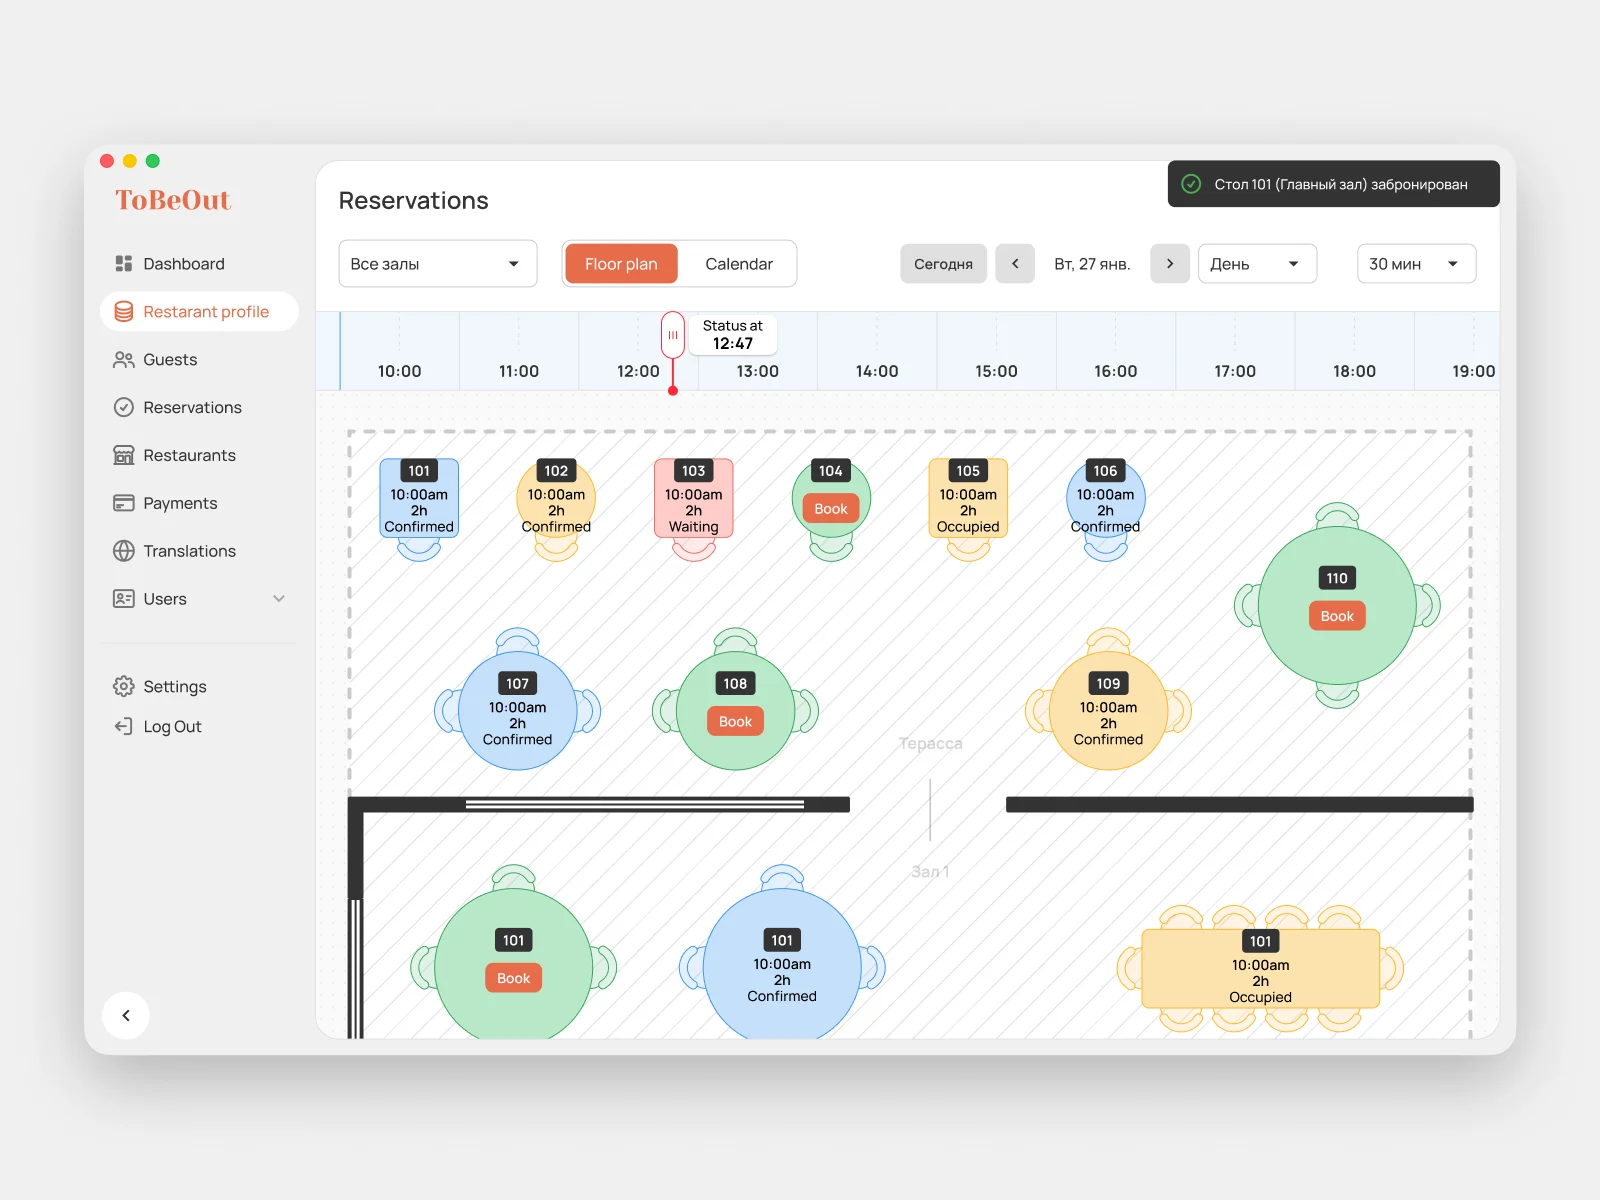
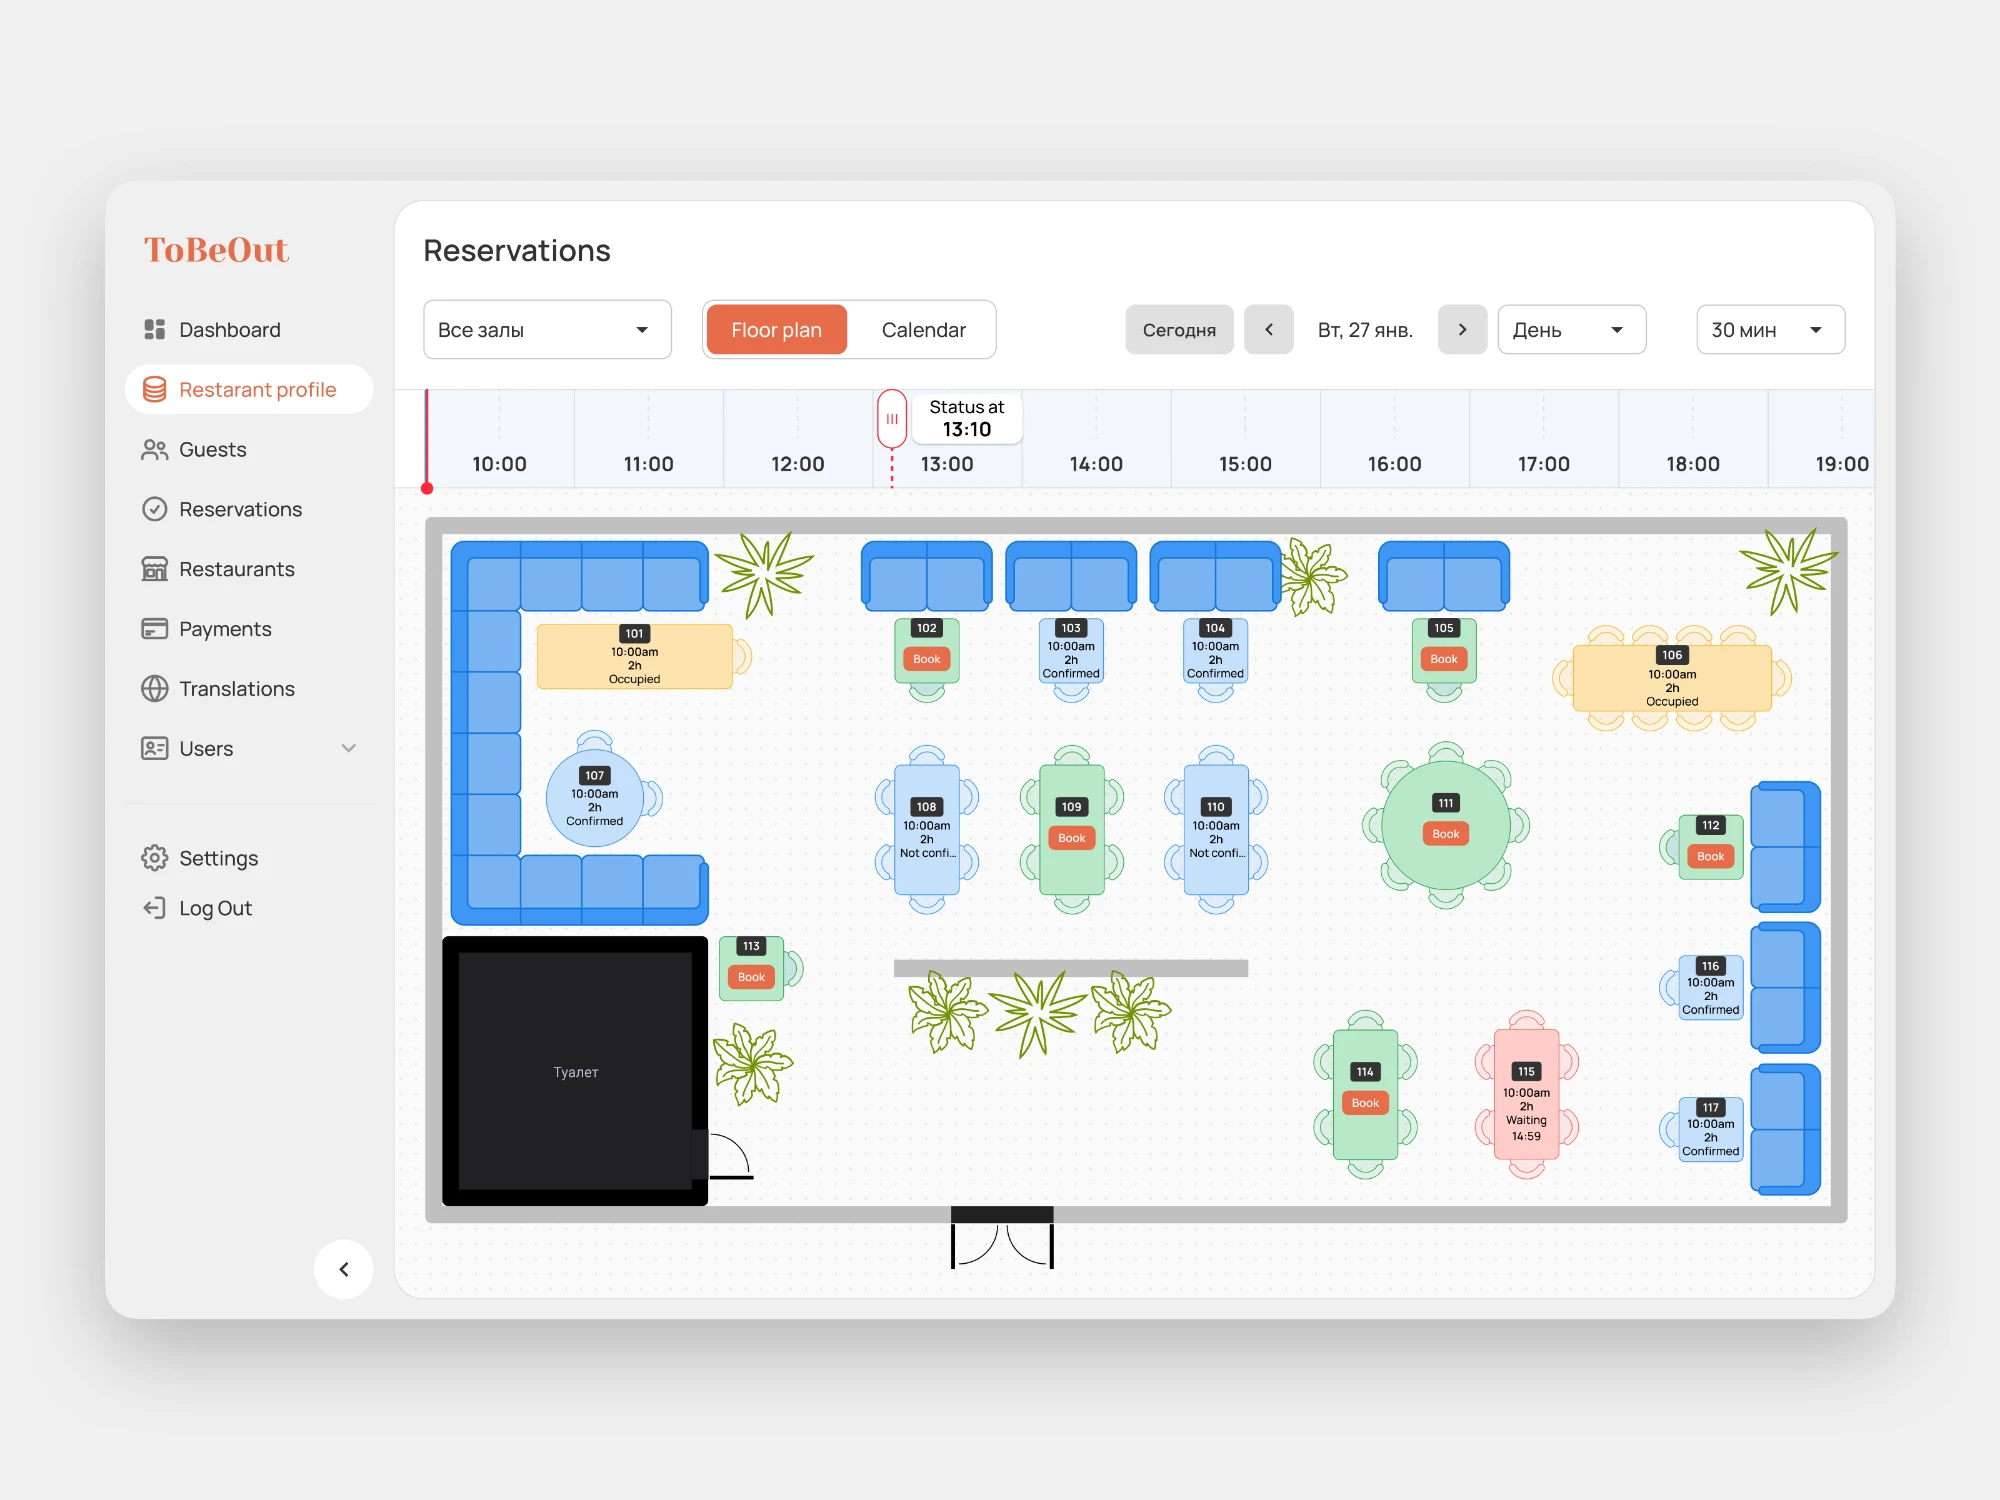
tobeout: новый скрин плана зала из фигмы; stenn: мокап браузера вместо макбука, свой рабочий ползунок прокрутки

diff --git a/case.css b/case.css
@@ -143,33 +143,35 @@ footer a{color:var(--accent)}
 .marquee__track img{height:688px;width:auto;flex:none;display:block;border-radius:24px;background:#eef0f3}
 @media (max-width:980px){ .marquee__track img{height:375px;border-radius:16px} }
 
-/* Мокап макбука с прокруткой длинного макета внутри экрана.
+/* Мокап браузера с прокруткой длинного макета внутри окна.
    WHY: страница 1440×4959 в полный рост ломает ритм страницы – ее невозможно пролистать. */
 .macbox{width:100vw;position:relative;left:50%;transform:translateX(-50vw);
   padding:32px 80px 8px;box-sizing:border-box}
-.macrow{display:flex;gap:20px;align-items:stretch;max-width:1120px;margin:0 auto}
+.macrow{display:flex;gap:16px;align-items:stretch;max-width:1120px;margin:0 auto}
 .mac{flex:1 1 auto;min-width:0}
-.mac__body{background:#1d1d1f;border-radius:22px;padding:14px 14px 22px;
-  box-shadow:0 24px 60px rgba(0,0,0,.18)}
-.mac__cam{width:100%;display:flex;justify-content:center;margin:0 0 10px}
-.mac__cam i{width:7px;height:7px;border-radius:50%;background:#3a3a3d;display:block}
-.mac__screen{position:relative;border-radius:6px;overflow:hidden;background:#fff;
-  aspect-ratio:16/10}
+.mac__body{background:#e9eaee;border:1px solid #d8dadf;border-radius:14px;overflow:hidden;
+  box-shadow:0 18px 44px rgba(0,0,0,.12)}
+.mac__bar{display:flex;align-items:center;gap:8px;padding:11px 14px;background:#e9eaee}
+.mac__dots{display:flex;gap:7px;flex:none}
+.mac__dots i{width:11px;height:11px;border-radius:50%;display:block}
+.mac__dots i:nth-child(1){background:#ff5f57}
+.mac__dots i:nth-child(2){background:#febc2e}
+.mac__dots i:nth-child(3){background:#28c840}
+.mac__url{flex:1 1 auto;min-width:0;margin-left:8px;background:#fff;border-radius:7px;
+  padding:5px 12px;font-size:13px;color:#6b7280;white-space:nowrap;overflow:hidden;
+  text-overflow:ellipsis;border:1px solid #dfe1e6}
+.mac__screen{position:relative;background:#fff;aspect-ratio:16/10;border-top:1px solid #d8dadf}
 .mac__scroll{position:absolute;inset:0;overflow-y:auto;overscroll-behavior:contain;
-  scrollbar-width:none}
+  scrollbar-width:none;-webkit-overflow-scrolling:touch}
 .mac__scroll::-webkit-scrollbar{display:none}
 .mac__scroll img{width:100%;display:block;border-radius:0;background:#fff}
-.mac__base{height:11px;margin:0 auto;width:106%;max-width:none;position:relative;left:-3%;
-  background:linear-gradient(#d2d5da,#a7abb2);border-radius:0 0 10px 10px}
-.mac__base::after{content:'';position:absolute;left:50%;transform:translateX(-50%);
-  top:0;width:14%;height:5px;background:#8f939a;border-radius:0 0 7px 7px}
 
-/* Ползунок прокрутки рядом с мокапом */
-.macslider{flex:0 0 44px;display:flex;flex-direction:column;align-items:center;gap:10px;
-  padding:14px 0 34px}
-.macslider input{writing-mode:vertical-lr;
-  width:6px;flex:1 1 auto;accent-color:#1d1d1f;cursor:grab;background:transparent}
-.macslider span{font-size:11px;color:var(--muted);letter-spacing:.06em}
+/* Свой ползунок: input[type=range] в вертикальном виде поддержан не везде */
+.macslider{flex:0 0 10px;position:relative;background:#e6e8ec;border-radius:6px;
+  touch-action:none;cursor:pointer;align-self:stretch}
+.macslider__thumb{position:absolute;left:-3px;width:16px;height:64px;border-radius:8px;
+  background:#1d1d1f;top:0;cursor:grab;transition:background .15s}
+.macslider__thumb:active{cursor:grabbing;background:#000}
 .mac__hint{max-width:1120px;margin:12px auto 0;font-size:16px;color:var(--muted);
   display:flex;gap:14px;align-items:center;flex-wrap:wrap}
 .mac__hint a{color:var(--accent);text-decoration:none}
@@ -179,11 +181,10 @@ footer a{color:var(--accent)}
 @media (max-width:640px){
   .macbox{padding:16px 16px 8px}
   .macrow{flex-direction:column;gap:12px}
-  .mac__body{border-radius:16px;padding:10px 10px 16px}
+  .mac__body{border-radius:12px}
   .mac__screen{aspect-ratio:auto;height:340px}
-  .macslider{flex:none;flex-direction:row;width:100%;padding:0}
-  .macslider span{transform:rotate(-90deg)}
-  .macslider input{writing-mode:horizontal-tb;direction:ltr;
-    width:auto;height:6px;flex:1 1 auto}
+  .mac__url{font-size:11px}
+  .macslider{flex:none;height:10px;width:100%}
+  .macslider__thumb{left:0;top:-3px;width:72px;height:16px}
   .mac__hint{font-size:14px;margin-top:8px}
 }

diff --git a/lightbox.js b/lightbox.js
@@ -50,29 +50,51 @@
   });
 })();
 
-/* Мокап макбука: ползунок и внутренняя прокрутка синхронизированы.
-   WHY: макет высотой ~5000px иначе занимает пол-страницы и мешает читать кейс. */
+/* Мокап браузера: свой ползунок на pointer-событиях + внутренняя прокрутка.
+   WHY: input[type=range] в вертикальной ориентации работает не во всех браузерах – был неподвижен. */
 (function () {
   [].slice.call(document.querySelectorAll('.macbox')).forEach(function (box) {
     var sc = box.querySelector('.mac__scroll');
-    var range = box.querySelector('.macslider input');
-    if (!sc || !range) return;
-    var lock = false;
-    function max() { return Math.max(1, sc.scrollHeight - sc.clientHeight); }
-    range.addEventListener('input', function () {
-      lock = true;
-      sc.scrollTop = max() * (range.value / 1000);
-      lock = false;
+    var rail = box.querySelector('.macslider');
+    var thumb = box.querySelector('.macslider__thumb');
+    if (!sc || !rail || !thumb) return;
+
+    function vertical() { return rail.clientHeight > rail.clientWidth; }
+    function maxScroll() { return Math.max(1, sc.scrollHeight - sc.clientHeight); }
+    function freeRail() {
+      return vertical() ? Math.max(1, rail.clientHeight - thumb.offsetHeight)
+                        : Math.max(1, rail.clientWidth - thumb.offsetWidth);
+    }
+    function paint() {
+      var k = sc.scrollTop / maxScroll();
+      if (vertical()) { thumb.style.top = (k * freeRail()) + 'px'; thumb.style.left = '-3px'; }
+      else { thumb.style.left = (k * freeRail()) + 'px'; thumb.style.top = '-3px'; }
+    }
+    function setFromPoint(e) {
+      var r = rail.getBoundingClientRect();
+      var k = vertical()
+        ? (e.clientY - r.top - thumb.offsetHeight / 2) / freeRail()
+        : (e.clientX - r.left - thumb.offsetWidth / 2) / freeRail();
+      k = Math.min(1, Math.max(0, k));
+      sc.scrollTop = k * maxScroll();
+      paint();
+    }
+
+    var dragging = false;
+    thumb.addEventListener('pointerdown', function (e) {
+      dragging = true; thumb.setPointerCapture(e.pointerId); e.preventDefault();
     });
-    sc.addEventListener('scroll', function () {
-      if (lock) return;
-      range.value = Math.round((sc.scrollTop / max()) * 1000);
-    }, { passive: true });
-    // колесо мыши над экраном прокручивает макет, но не «залипает» на краях
-    sc.addEventListener('wheel', function (e) {
-      var atTop = sc.scrollTop <= 0 && e.deltaY < 0;
-      var atEnd = sc.scrollTop >= max() - 1 && e.deltaY > 0;
-      if (!atTop && !atEnd) e.stopPropagation();
-    }, { passive: true });
+    thumb.addEventListener('pointermove', function (e) { if (dragging) setFromPoint(e); });
+    thumb.addEventListener('pointerup', function () { dragging = false; });
+    thumb.addEventListener('pointercancel', function () { dragging = false; });
+    // клик по дорожке — прыжок в эту точку
+    rail.addEventListener('pointerdown', function (e) { if (e.target !== thumb) setFromPoint(e); });
+
+    sc.addEventListener('scroll', function () { if (!dragging) paint(); }, { passive: true });
+    window.addEventListener('resize', paint);
+    if (sc.querySelector('img') && !sc.querySelector('img').complete) {
+      sc.querySelector('img').addEventListener('load', paint);
+    }
+    paint();
   });
 })();

diff --git a/stenn.html b/stenn.html
@@ -49,22 +49,20 @@
     <div class="macrow">
       <div class="mac">
         <div class="mac__body">
-          <div class="mac__cam"><i></i></div>
+          <div class="mac__bar">
+            <div class="mac__dots"><i></i><i></i><i></i></div>
+            <div class="mac__url">stenn.com</div>
+          </div>
           <div class="mac__screen">
             <div class="mac__scroll">
               <img src="assets/tild6639-3435-4961-a166-323866376630/stennm2.webp" alt="Карта сценариев платформы Stenn" loading="lazy" decoding="async">
             </div>
           </div>
         </div>
-        <div class="mac__base"></div>
       </div>
-      <div class="macslider">
-        <span>▲</span>
-        <input type="range" min="0" max="1000" value="0" step="1" aria-label="Прокрутка макета">
-        <span>▼</span>
-      </div>
+      <div class="macslider"><div class="macslider__thumb"></div></div>
     </div>
-    <p class="mac__hint">Макет прокручивается внутри экрана – колесом, пальцем или ползунком.
+    <p class="mac__hint">Страница прокручивается внутри окна – колесом, пальцем или ползунком.
       <a href="assets/tild6639-3435-4961-a166-323866376630/stennm2.webp" target="_blank" rel="noopener">Открыть целиком ↗</a></p>
   </div>
   <h2>Путь клиента: от расчета до финансирования</h2>
